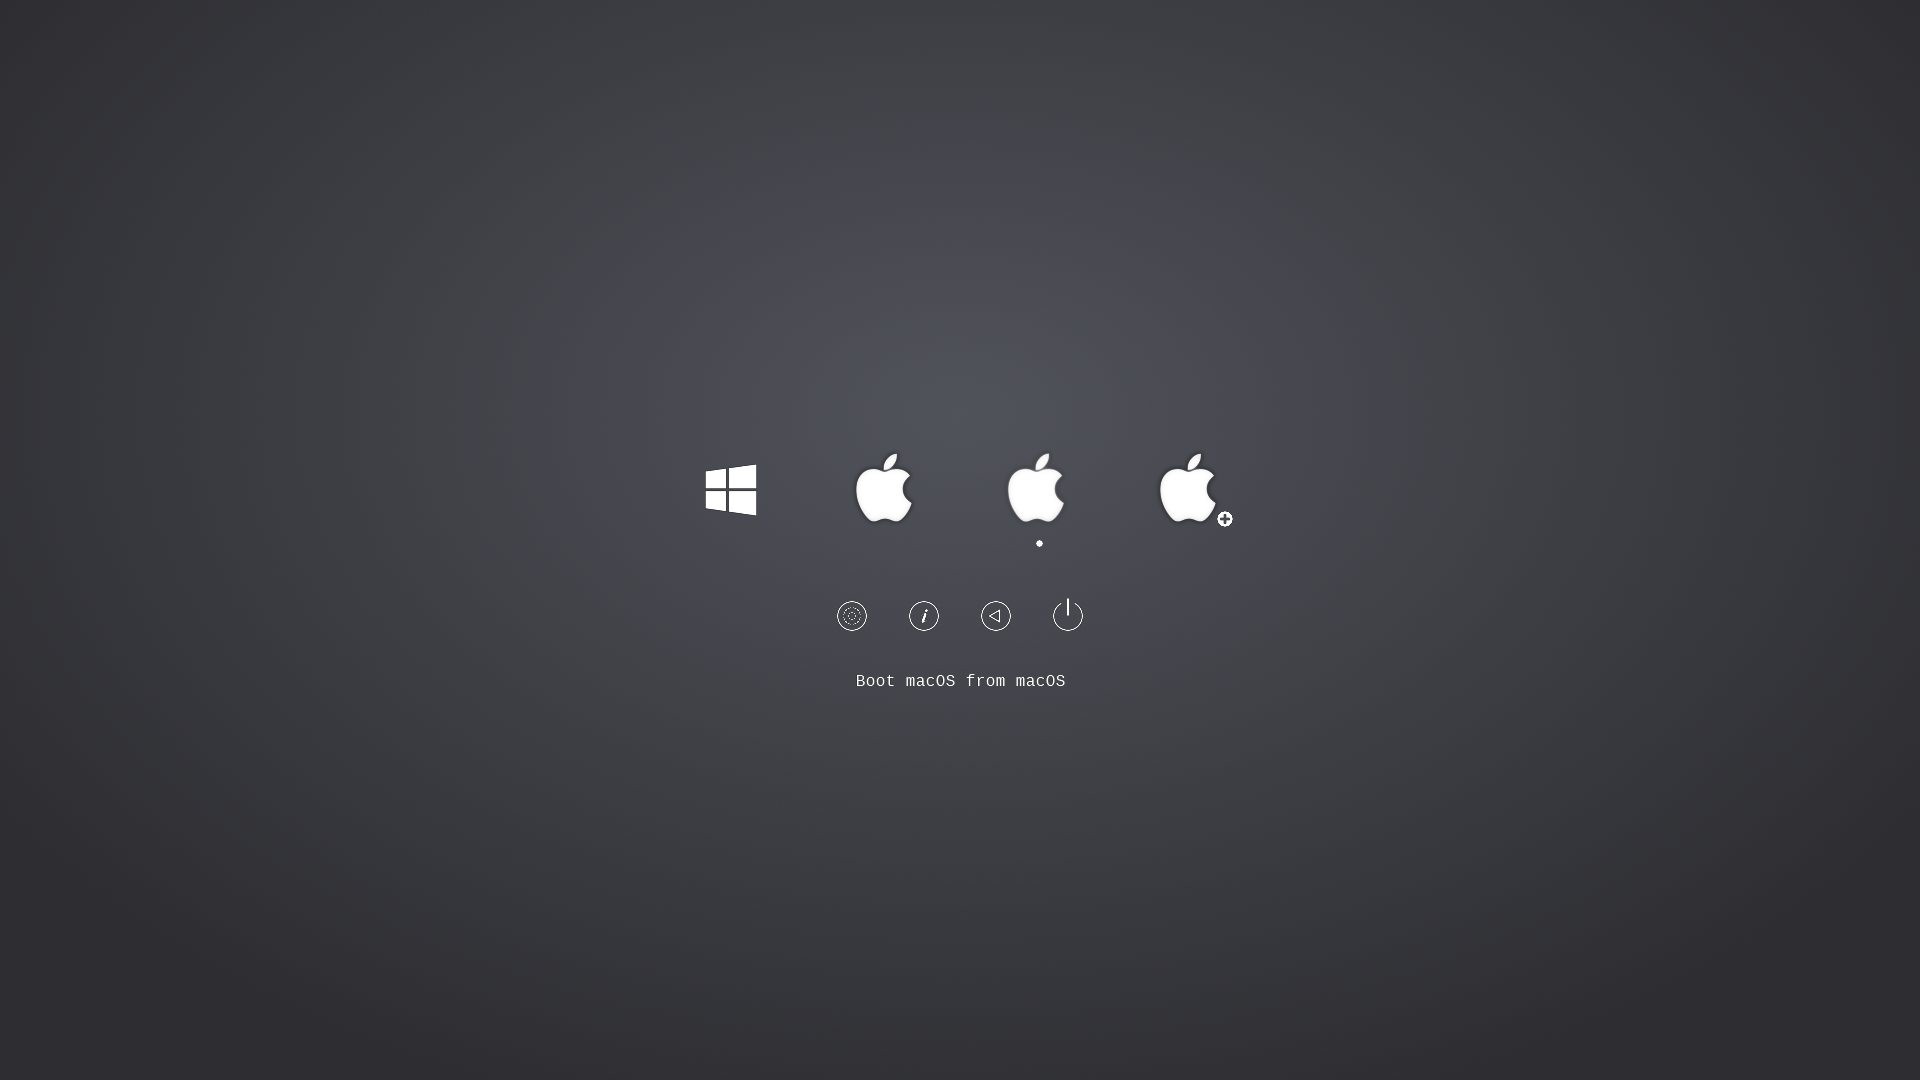
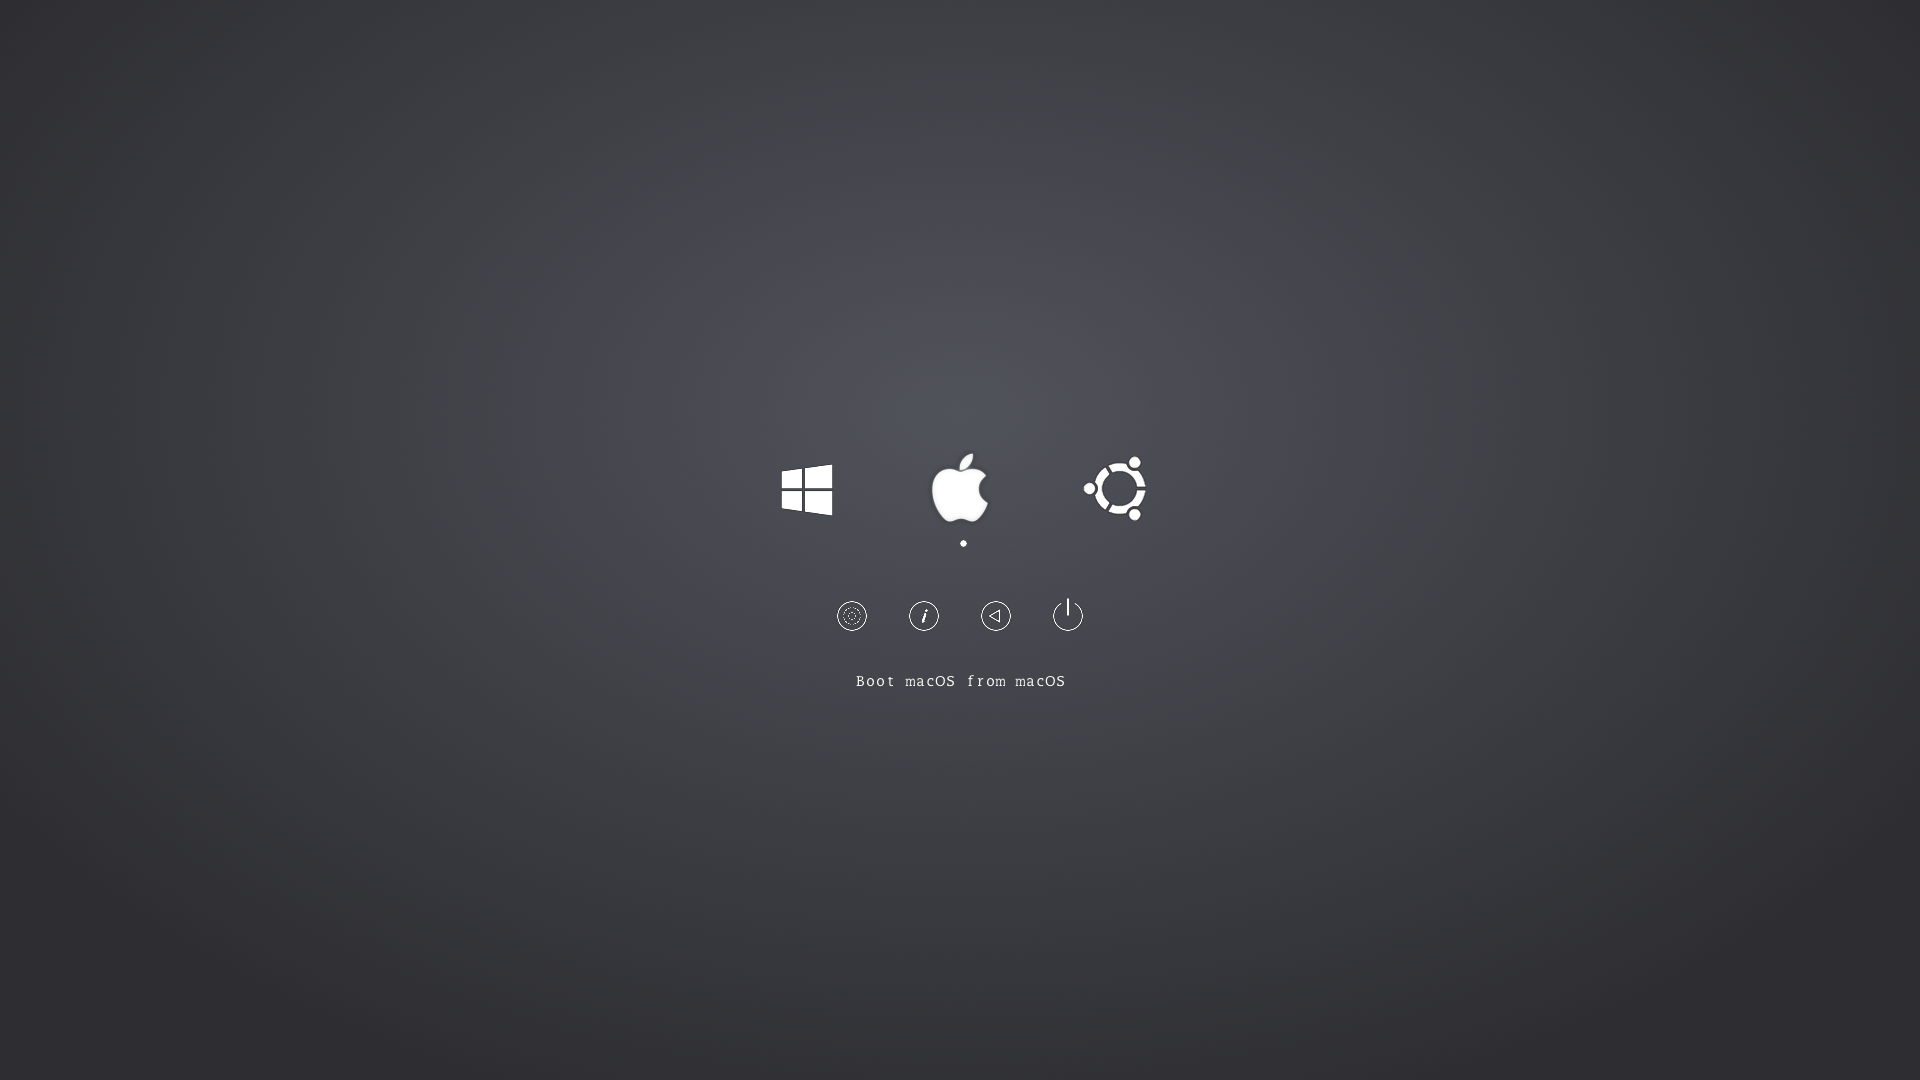
增加 Ubuntu 图标
增加 Ubuntu 图标，重做外置磁盘图标，更换字体

Changed region(s): [[0.3438, 0.4278, 0.6562, 0.4889], [0.5312, 0.6111, 0.5625, 0.6417], [0.4688, 0.6111, 0.5, 0.6417]]

diff --git a/README.md b/README.md
@@ -3,5 +3,11 @@
 ![Screenshot](https://github.com/grasonchan/Clover-Themes/raw/master/Minimalism/screenshot.png)
 
 ## 更新日志
-* 2018.02.21
+**2018**
+* 05.20
+    * 增加 Ubuntu 图标
+    * 重做外置磁盘图标
+    * 更换字体
+
+* 02.21
     * 更换 Windows 图标
